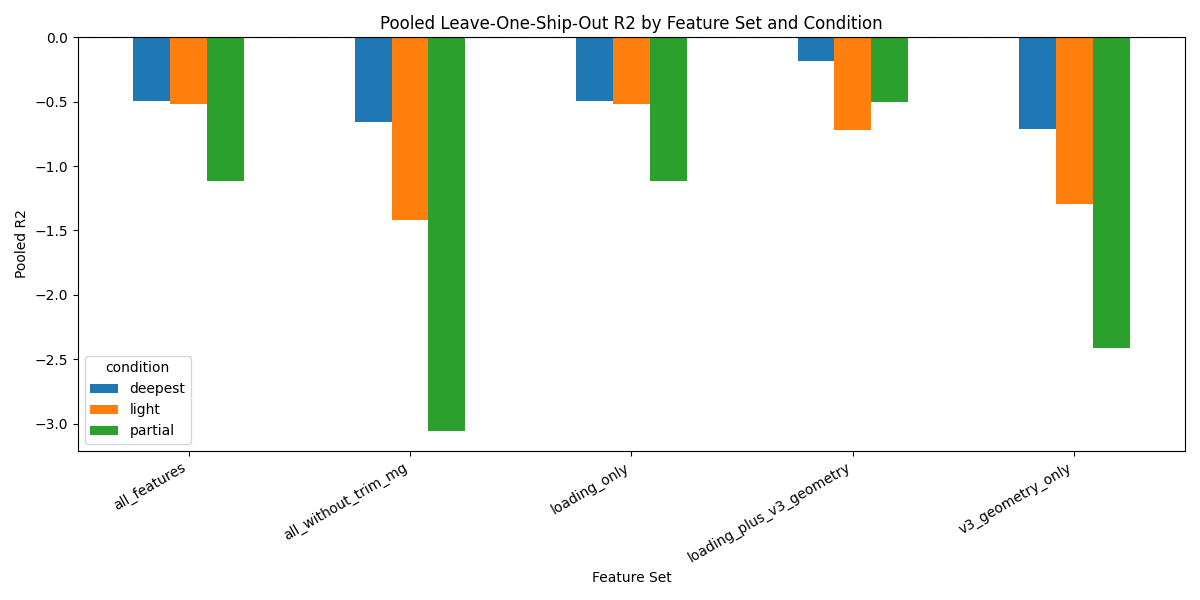
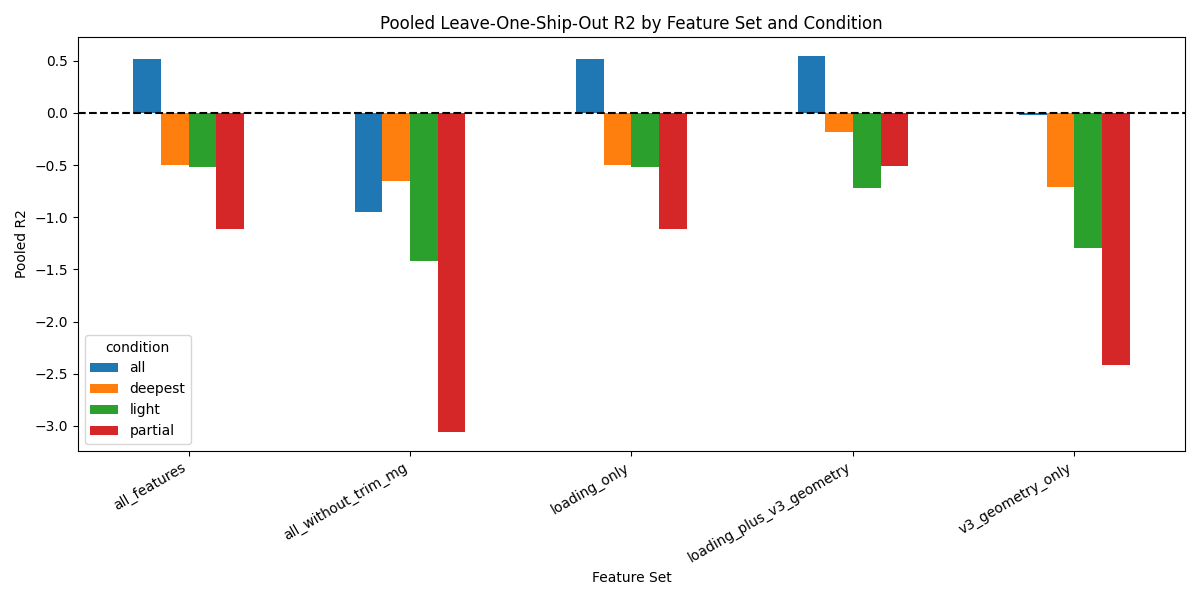
Trained one model per loading condition

diff --git a/src/app/backend.py b/src/app/backend.py
@@ -477,8 +477,14 @@ def run_agent_pipeline(
     """
     # Load the model.
     try:
-        with open("models/model.pkl", "rb") as file:
-            saved = _ModelUnpickler(file).load()
+        with open("models/model_light.pkl", "rb") as file:
+            light_saved = _ModelUnpickler(file).load()
+
+        with open("models/model_partial.pkl", "rb") as file:
+            partial_saved = _ModelUnpickler(file).load()
+
+        with open("models/model_deepest.pkl", "rb") as file:
+            deepest_saved = _ModelUnpickler(file).load()
 
     except FileNotFoundError:
         QMessageBox.warning(
@@ -496,12 +502,19 @@ def run_agent_pipeline(
         )
         return
 
-    saved_model = cast(dict[str, Any], saved)
-    model_type = str(saved_model["model_type"])
-    model = saved_model["model"]
-    feature_cols = cast(list[str], saved_model["feature_cols"])
+    light_saved_model = cast(dict[str, Any], light_saved)
+    partial_saved_model = cast(dict[str, Any], partial_saved)
+    deepest_saved_model = cast(dict[str, Any], deepest_saved)
+
+    model_type = str(light_saved_model["model_type"])
+
+    light_model = light_saved_model["model"]
+    partial_model = partial_saved_model["model"]
+    deepest_model = deepest_saved_model["model"]
+
+    feature_cols = cast(list[str], light_saved_model["feature_cols"])
     engineer_features = cast(
-        _FeatureEngineer | None, saved_model.get("engineer_features")
+        _FeatureEngineer | None, light_saved_model.get("engineer_features")
     )
 
     try:

diff --git a/src/models/mapie_wrapped_xgb.py b/src/models/mapie_wrapped_xgb.py
@@ -127,7 +127,7 @@ class MapieXGBRegressor(object):
             mapie_model (SplitConformalRegressor):
                 The fitted and conformalized MAPIE model to save.
         """
-        with open("model.pkl", "wb") as file:
+        with open("model_deepest.pkl", "wb") as file:
             pickle.dump(
                 {
                     "model_type": "MAPIE XGB Regressor",
@@ -253,8 +253,8 @@ class MapieXGBRegressor(object):
 
 if __name__ == "__main__":
     xgb_model = MapieXGBRegressor(
-        path_to_config="src/models/config.yaml",
-        path_to_data="C:/Users/student01/Desktop/rug-project/pias/data/all_ships_all_conditions_v5.csv",
+        path_to_config="config.yaml",
+        path_to_data="data/all_ships_v8_deepest.csv",
     )
     xgb_model.train()
-    xgb_model.evaluate(print_results=True)
+    xgb_model.evaluate(print_results=True, save_best_model=True)

diff --git a/src/diagnostics/feature_diagnostic.py b/src/diagnostics/feature_diagnostic.py
@@ -10,6 +10,7 @@ datasets = {
     "light": "data/all_ships_v8_light.csv",
     "partial": "data/all_ships_v8_partial.csv",
     "deepest": "data/all_ships_v8_deepest.csv",
+    "all": "data/all_ships_v8.csv",
 }
 
 
@@ -221,11 +222,7 @@ def evaluate_leave_one_ship_out(df, features, target, group_col):
     else:
         pooled_r2 = np.nan
 
-    pooled_mae = (
-        mean_absolute_error(all_y_true, all_y_pred)
-        if all_y_true
-        else np.nan
-    )
+    pooled_mae = mean_absolute_error(all_y_true, all_y_pred) if all_y_true else np.nan
 
     return {
         "features_used": features,
